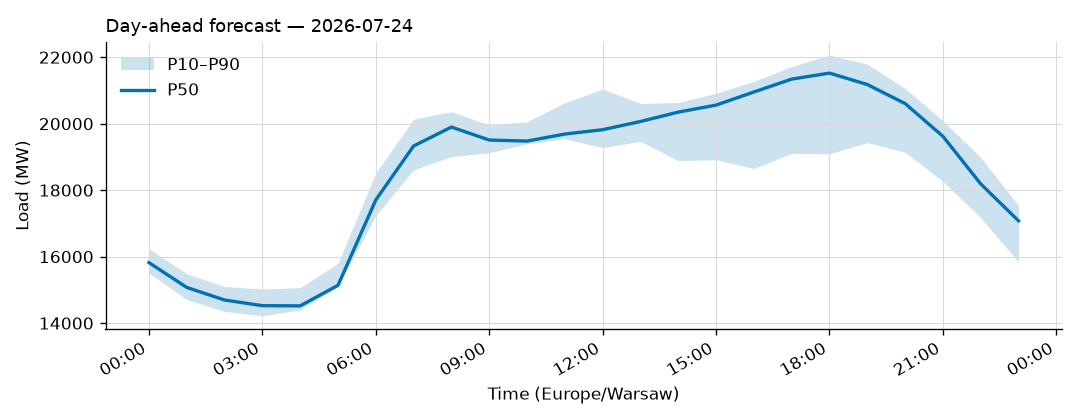
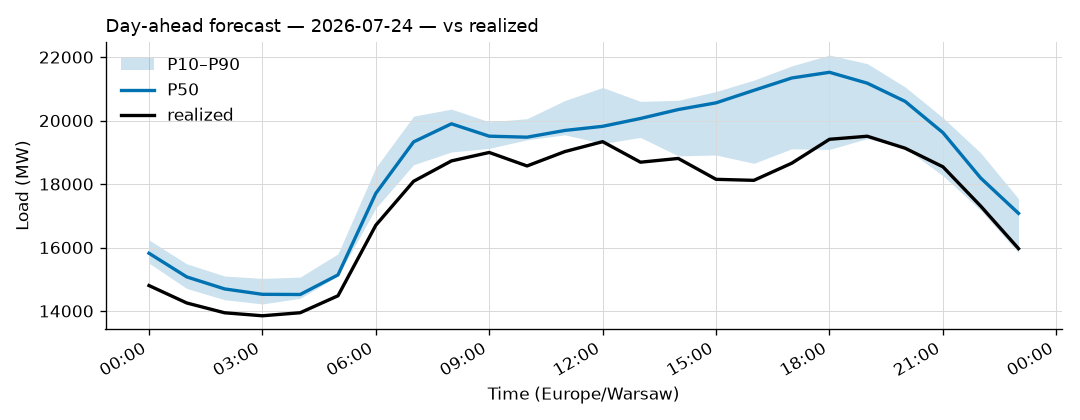
ops: daily report 2026-07-25 — first dry-run on the rebuilt data store

diff --git a/reports/daily/2026-07-25.md b/reports/daily/2026-07-25.md
@@ -1,0 +1,53 @@
+# Daily forecast report — 2026-07-25
+
+Model: seasonal naive — **BASELINE**, not the final model. P50 copies the same hour 7 days ago; the band is the spread of the last 4 weeks. Serves until a trained model earns promotion (see docs/PLAN.md M4, UAT rules M9).
+
+## Yesterday (2026-07-24) — how did we do?
+
+| Forecast | MAPE |
+|---|---|
+| Ours (naive, incumbent) | 7.01% |
+| Challenger (ridge+TSO, shadow) | 4.25% |
+| TSO day-ahead | 6.04% |
+
+![Yesterday: forecast vs realized](../figures/daily/2026-07-24.png)
+
+## Tomorrow (2026-07-26) — the forecast
+
+- Expected peak: **16,338 MW** around 12:00 local time.
+- Daily range (P50): 12,015 – 16,338 MW.
+- Uncertainty band at peak: 15,479 – 17,704 MW (P10–P90).
+
+### Top drivers (plain words)
+
+1. Same hour last week. The naive model copies it.
+2. Day of week: tomorrow is a Sunday.
+3. Warsaw temperature tomorrow: 16 to 30 °C (not yet used by the model).
+
+### Oddities
+
+- Price: RES forecast for 2026-07-26 not yet published (24 h persisted from the day before).
+
+![Day-ahead forecast fan chart](../figures/daily/2026-07-26.png)
+
+## Price — day-ahead (LEAR, shadow)
+
+### Yesterday (2026-07-24) — forecast vs realized
+
+| Model | MAE (EUR/MWh) |
+|---|---|
+| LEAR (incumbent) | 22.75 |
+| LightGBM+conformal (shadow) | 25.16 |
+| naive-1d | 25.75 |
+
+![Price yesterday vs realized](../figures/daily/price_2026-07-24.png)
+
+### Tomorrow (2026-07-26) — the price forecast
+
+- Expected peak price: **172 EUR/MWh** around 22:00 local.
+- P50 range: -15 – 172 EUR/MWh; band at peak 145 – 205.
+- Spike risk low. Highest flag score 0% at 20:00 local.
+
+![Price forecast tomorrow](../figures/daily/price_2026-07-26.png)
+
+_Full hourly quantiles: see `data/forecasts/`._
